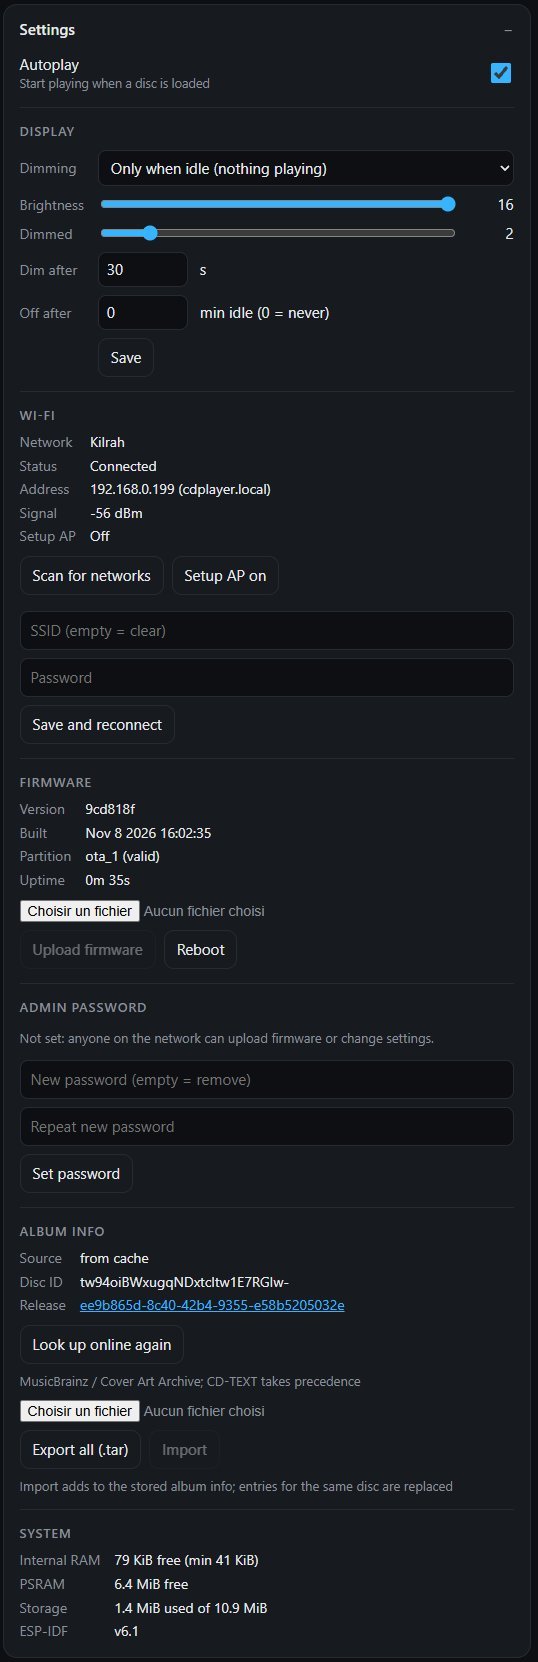
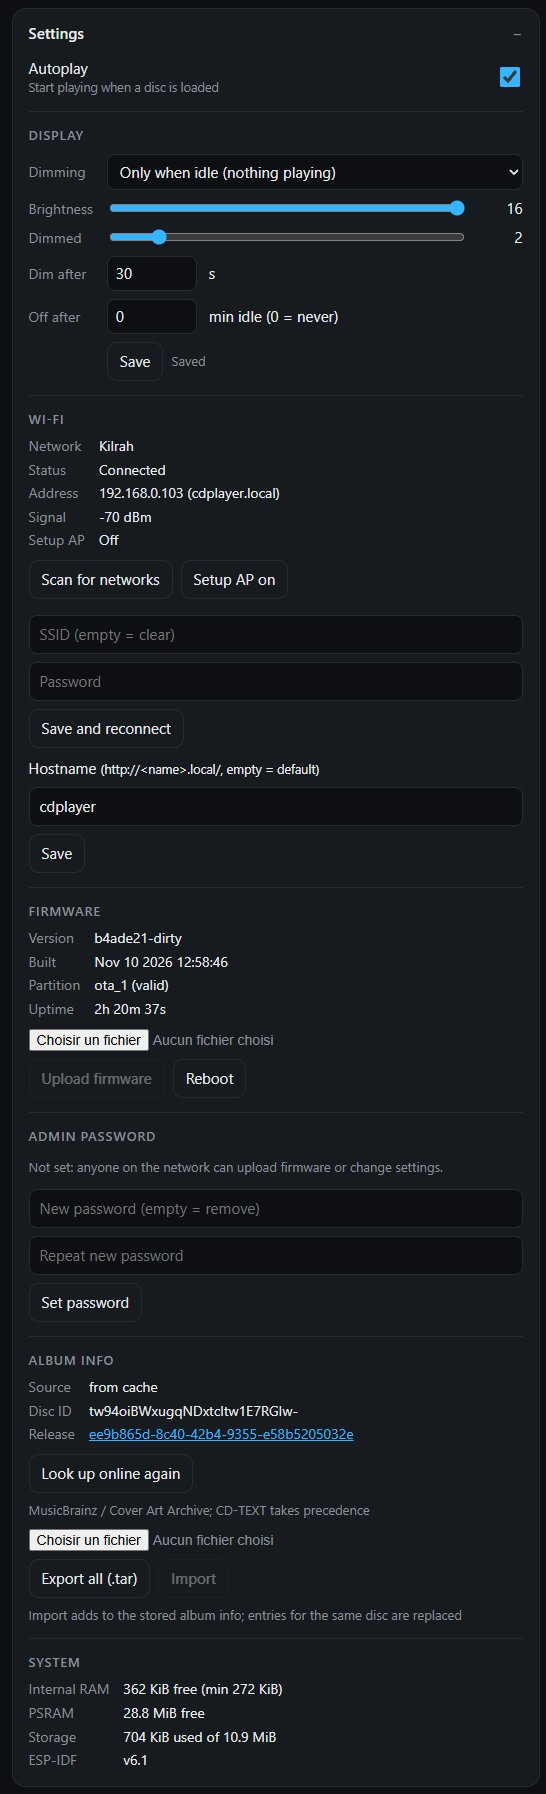
Update readme for P4

diff --git a/README.md b/README.md
@@ -1,16 +1,20 @@
 # ESP USB CD Player
 
-An ESP-based standalone audio CD player. It reads audio CDs from a USB optical drive connected to the ESP's USB Host port, plays them through an I2S DAC, shows track info on a display and provides a webui for interaction. Local button controls not implemented yet.
-USB ODDs are all either SATA or IDE behind a bridge anyway, so any existing IDE/SATA desktop/laptop drive works behind an appropriate USB adapter.
+An ESP-based standalone audio CD player. It reads audio CDs from a USB optical drive connected to the ESP's USB Host port, plays them through an I2S DAC, shows track info on a display and provides a webui for interaction. Hardware button controls not implemented yet.
+USB ODDs are all either SATA or IDE behind a bridge anyway, so any existing IDE/SATA desktop/laptop drive should work behind an appropriate USB adapter.
 
-Currently running on a LilyGO T-Display S3 with a PCM5102 DAC. Also runs on a Guition JC1060P470 (ESP32-P4, 7" 1024x600 touch screen) with the same PCM5102 module (see [Boards](#boards)). It should be portable to any USB Host capable ESP (PSRAM is required, at least 2MB with current build).
+Currently running on a LilyGO T-Display S3 with a PCM5102 DAC. Also runs on a Guition JC1060P470-V2 (ESP32-P4, 7" 1024x600 touch screen) with the same PCM5102 module (see [Boards](#boards)). It should be portable to any USB Host capable ESP (PSRAM is required, at least 2MB with current build).
 
-Upon install a `CDPlayer-XXXX` access point, password `cdplayer` is opened for interaction/configuration/connecting it to your own network, where it will then be reachable through `http://cdplayer.local`.  
+Upon install a `CDPlayer-XXXX` access point, password `cdplayer` is opened for interaction/configuration/connecting it to your own network, where it will then be reachable through `http://cdplayer.local`. Hostname can be changed in settings.
 
 CD-TEXT is displayed if available, and if internet is available disc metadata including cover will be retrieved from MusicBrainz / Cover Art Archive and cached locally in the LittleFS storage partition. 
-A 1.5MB audio ring buffer is used to cover the case where playback is paused, the drive goes to idle and takes long to spin back up when resuming (more likely than using it while running these days...)
+A 1.5MB/~8s audio ring buffer is used to cover the case where playback is paused, the drive goes to idle and takes long to spin back up when resuming (more likely than using it while running these days...)
 
 ![board](docs/img/board.jpg)
+
+![P4 board](docs/img/p4-board.jpg)
+
+![P4 Tracklist](docs/img/p4-tracklist.jpg)
 
 ![webui](docs/img/ui.jpg)
 
@@ -25,6 +29,7 @@ Video:
 Most ESP boards with USB Host support need modification, e.g.
 - On the T-Display S3 where the USB port is normally used in "device" mode there is a diode that prevents an external supply from backfeeding into the host computer. That diode needs to be removed and replaced with a jumper for the USB port to provide power to the drive (and 5V supplied from board pads).
 - On some Devkit-C-like boards with 2 ports the native USB port gets power from the USB-serial port, but through a fuse that causes too much voltage drop at the current a self-powered drive needs, so that also needs bypassing when using e.g. a laptop drive with no external power.
+- Some drives are more suited than others. Some will ignore the speed command and spin at max speed playing audio CDs and be noisy as a result. Some have dynamic balancing that cause a "slipping" sound. Laptop drives are probably preferable.
 
 # Agent details below
 
